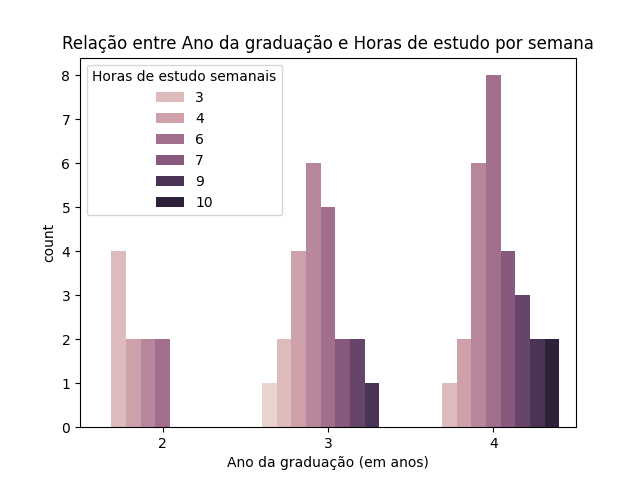
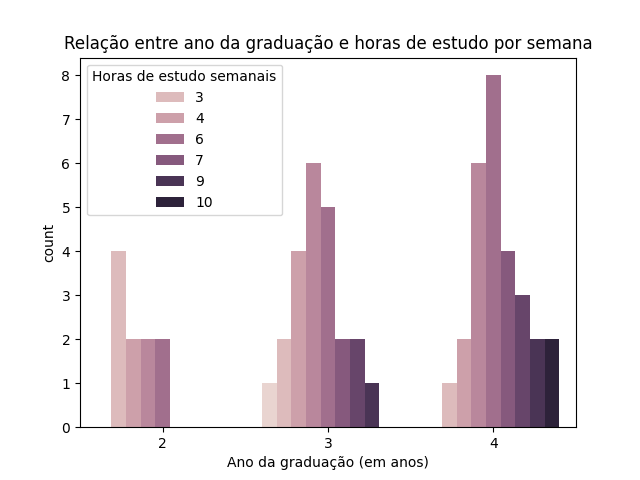
fix: fix labels grammar

Changed region(s): [[0.0938, 0.0625, 0.9375, 0.125]]

diff --git a/index.py b/index.py
@@ -35,12 +35,12 @@ plt.show()
 
 # relation between year of graduation and hours of study per week
 sns.countplot(x=labels["yearOfGraduation"], hue=labels["studyHours"], data=data)
-plt.title("Relação entre Ano da graduação e Horas de estudo por semana")
+plt.title("Relação entre ano da graduação e horas de estudo por semana")
 plt.savefig("graphs/relacao-ano-de-graduacao-e-horas-de-estudos.png")
 plt.show()
 
 # relation between age and hours of study per week
 sns.countplot(x=labels["age"], hue=labels["studyHours"], data=data)
-plt.title("Relação entre Idade e Horas de estudo por semana")
+plt.title("Relação entre idade e horas de estudo por semana")
 plt.savefig("graphs/relacao-idade-e-horas-de-estudos.png")
 plt.show()
